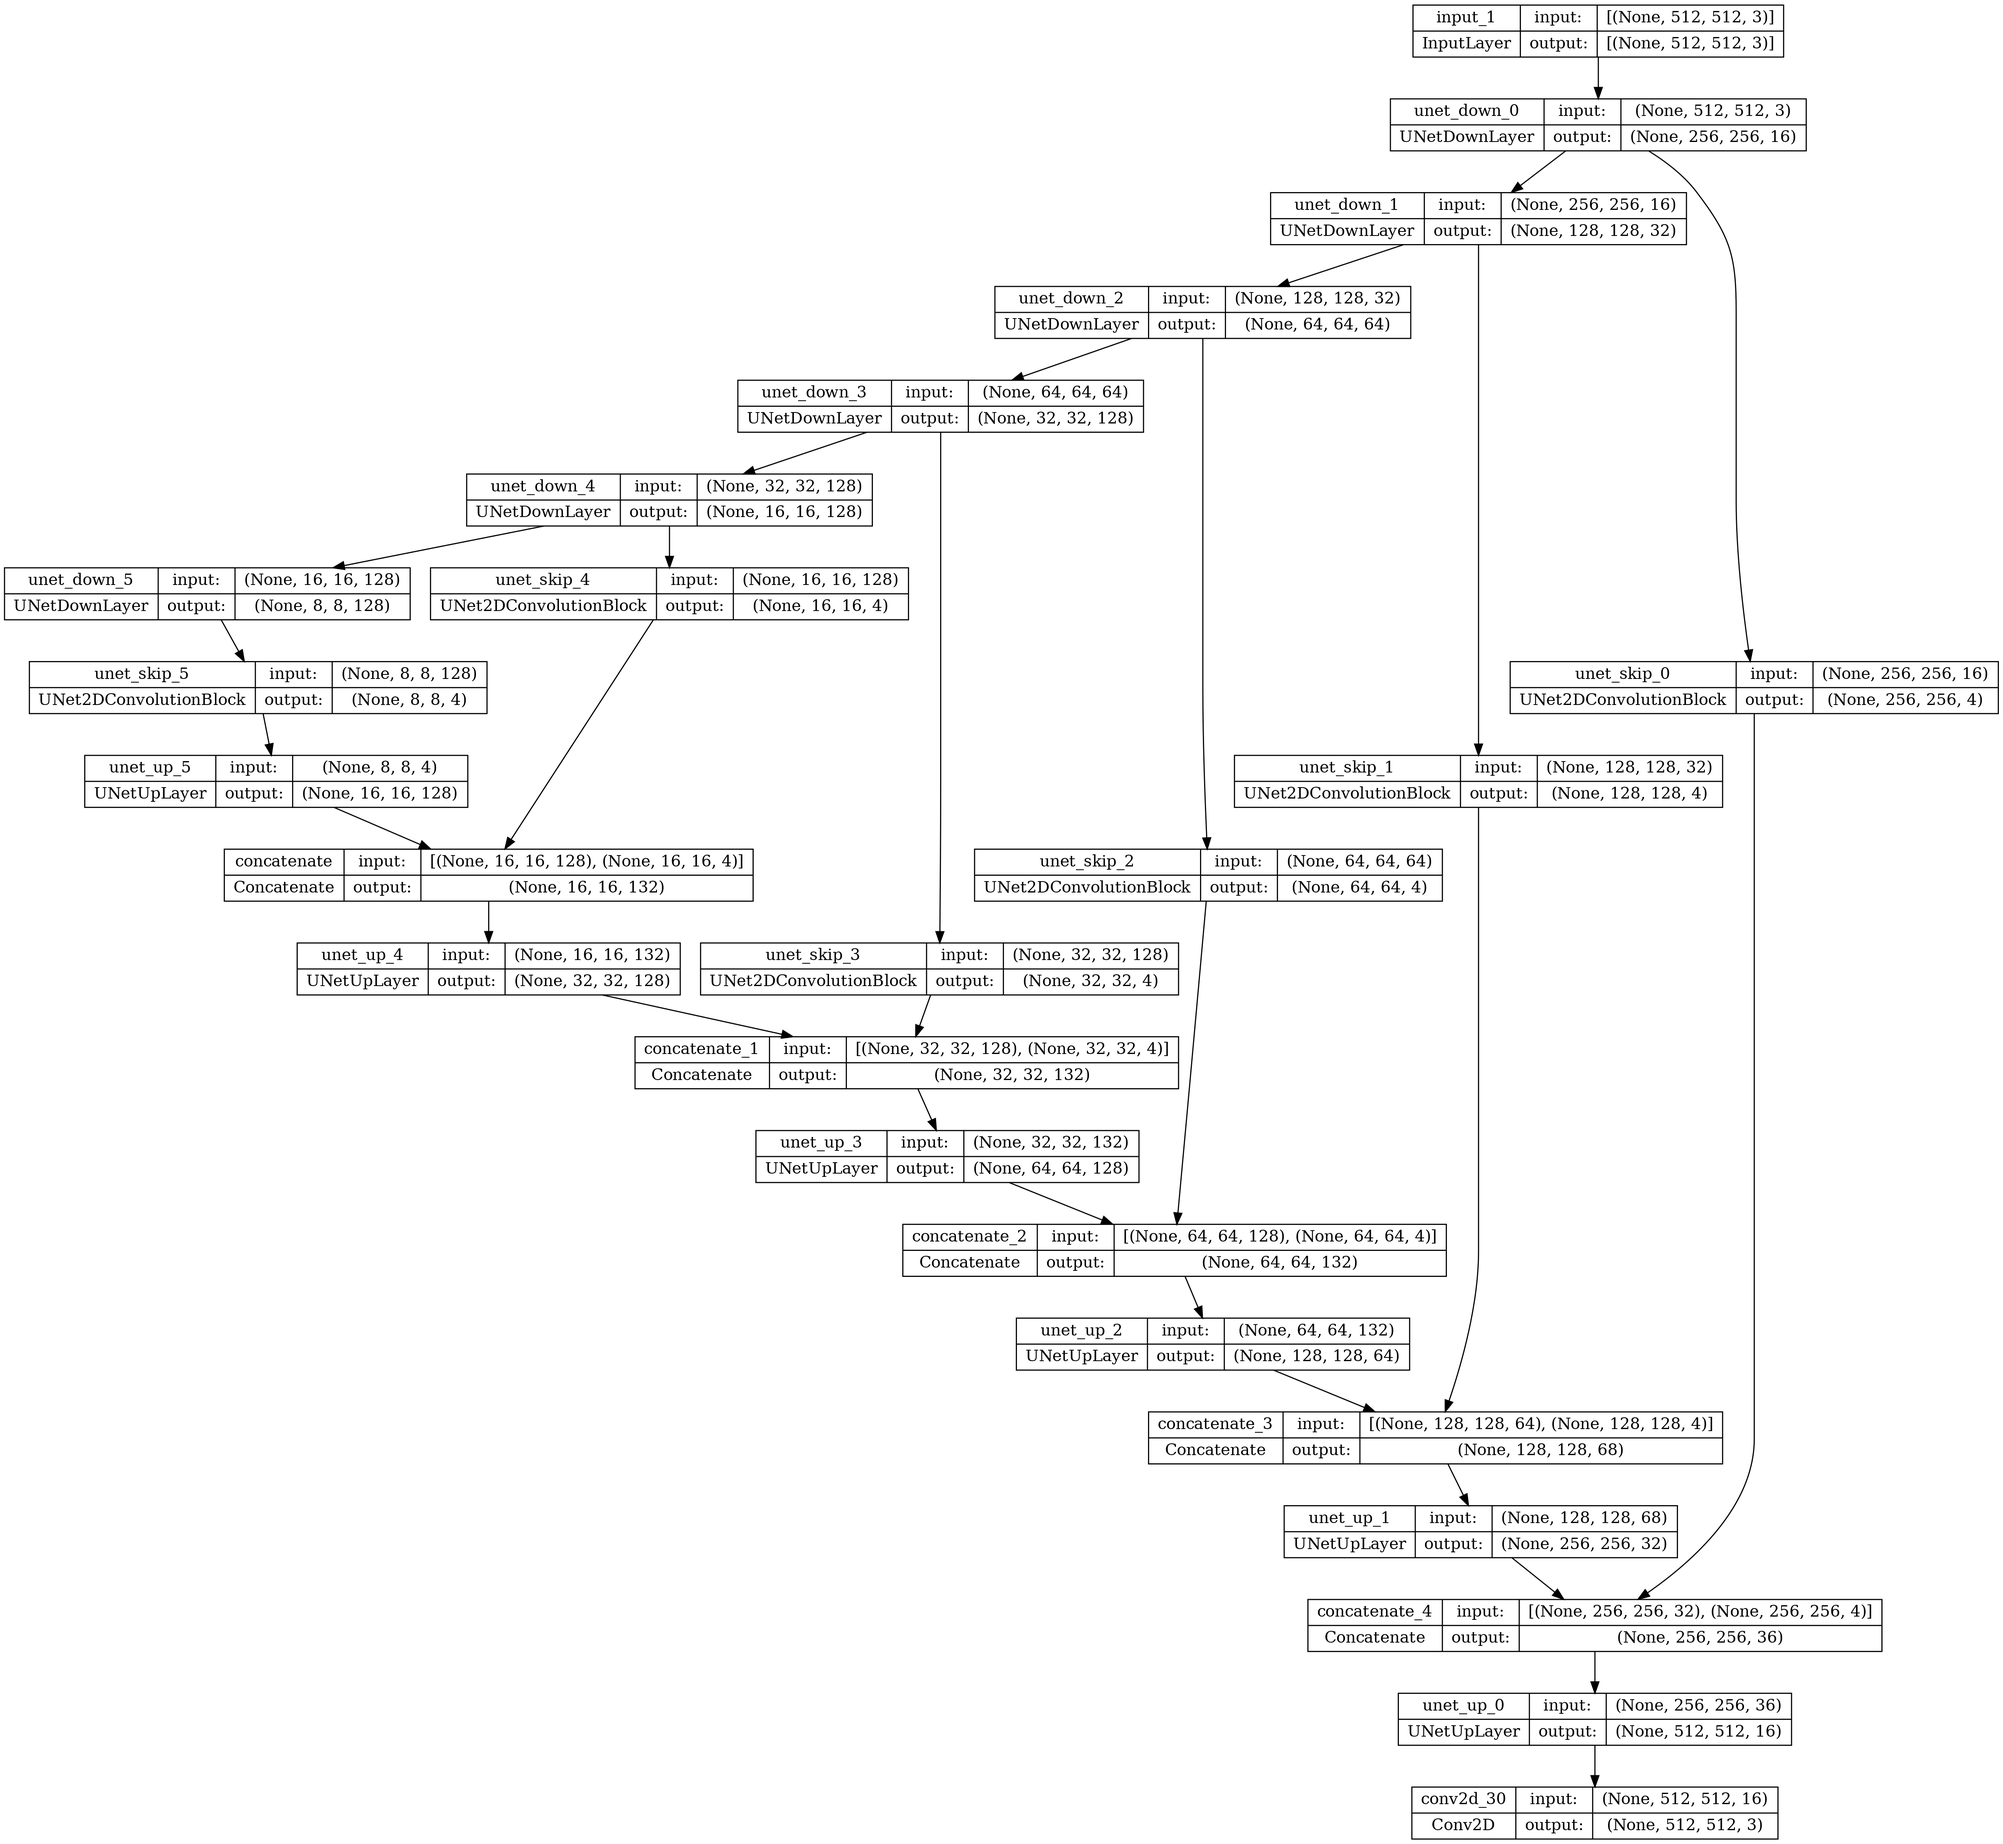
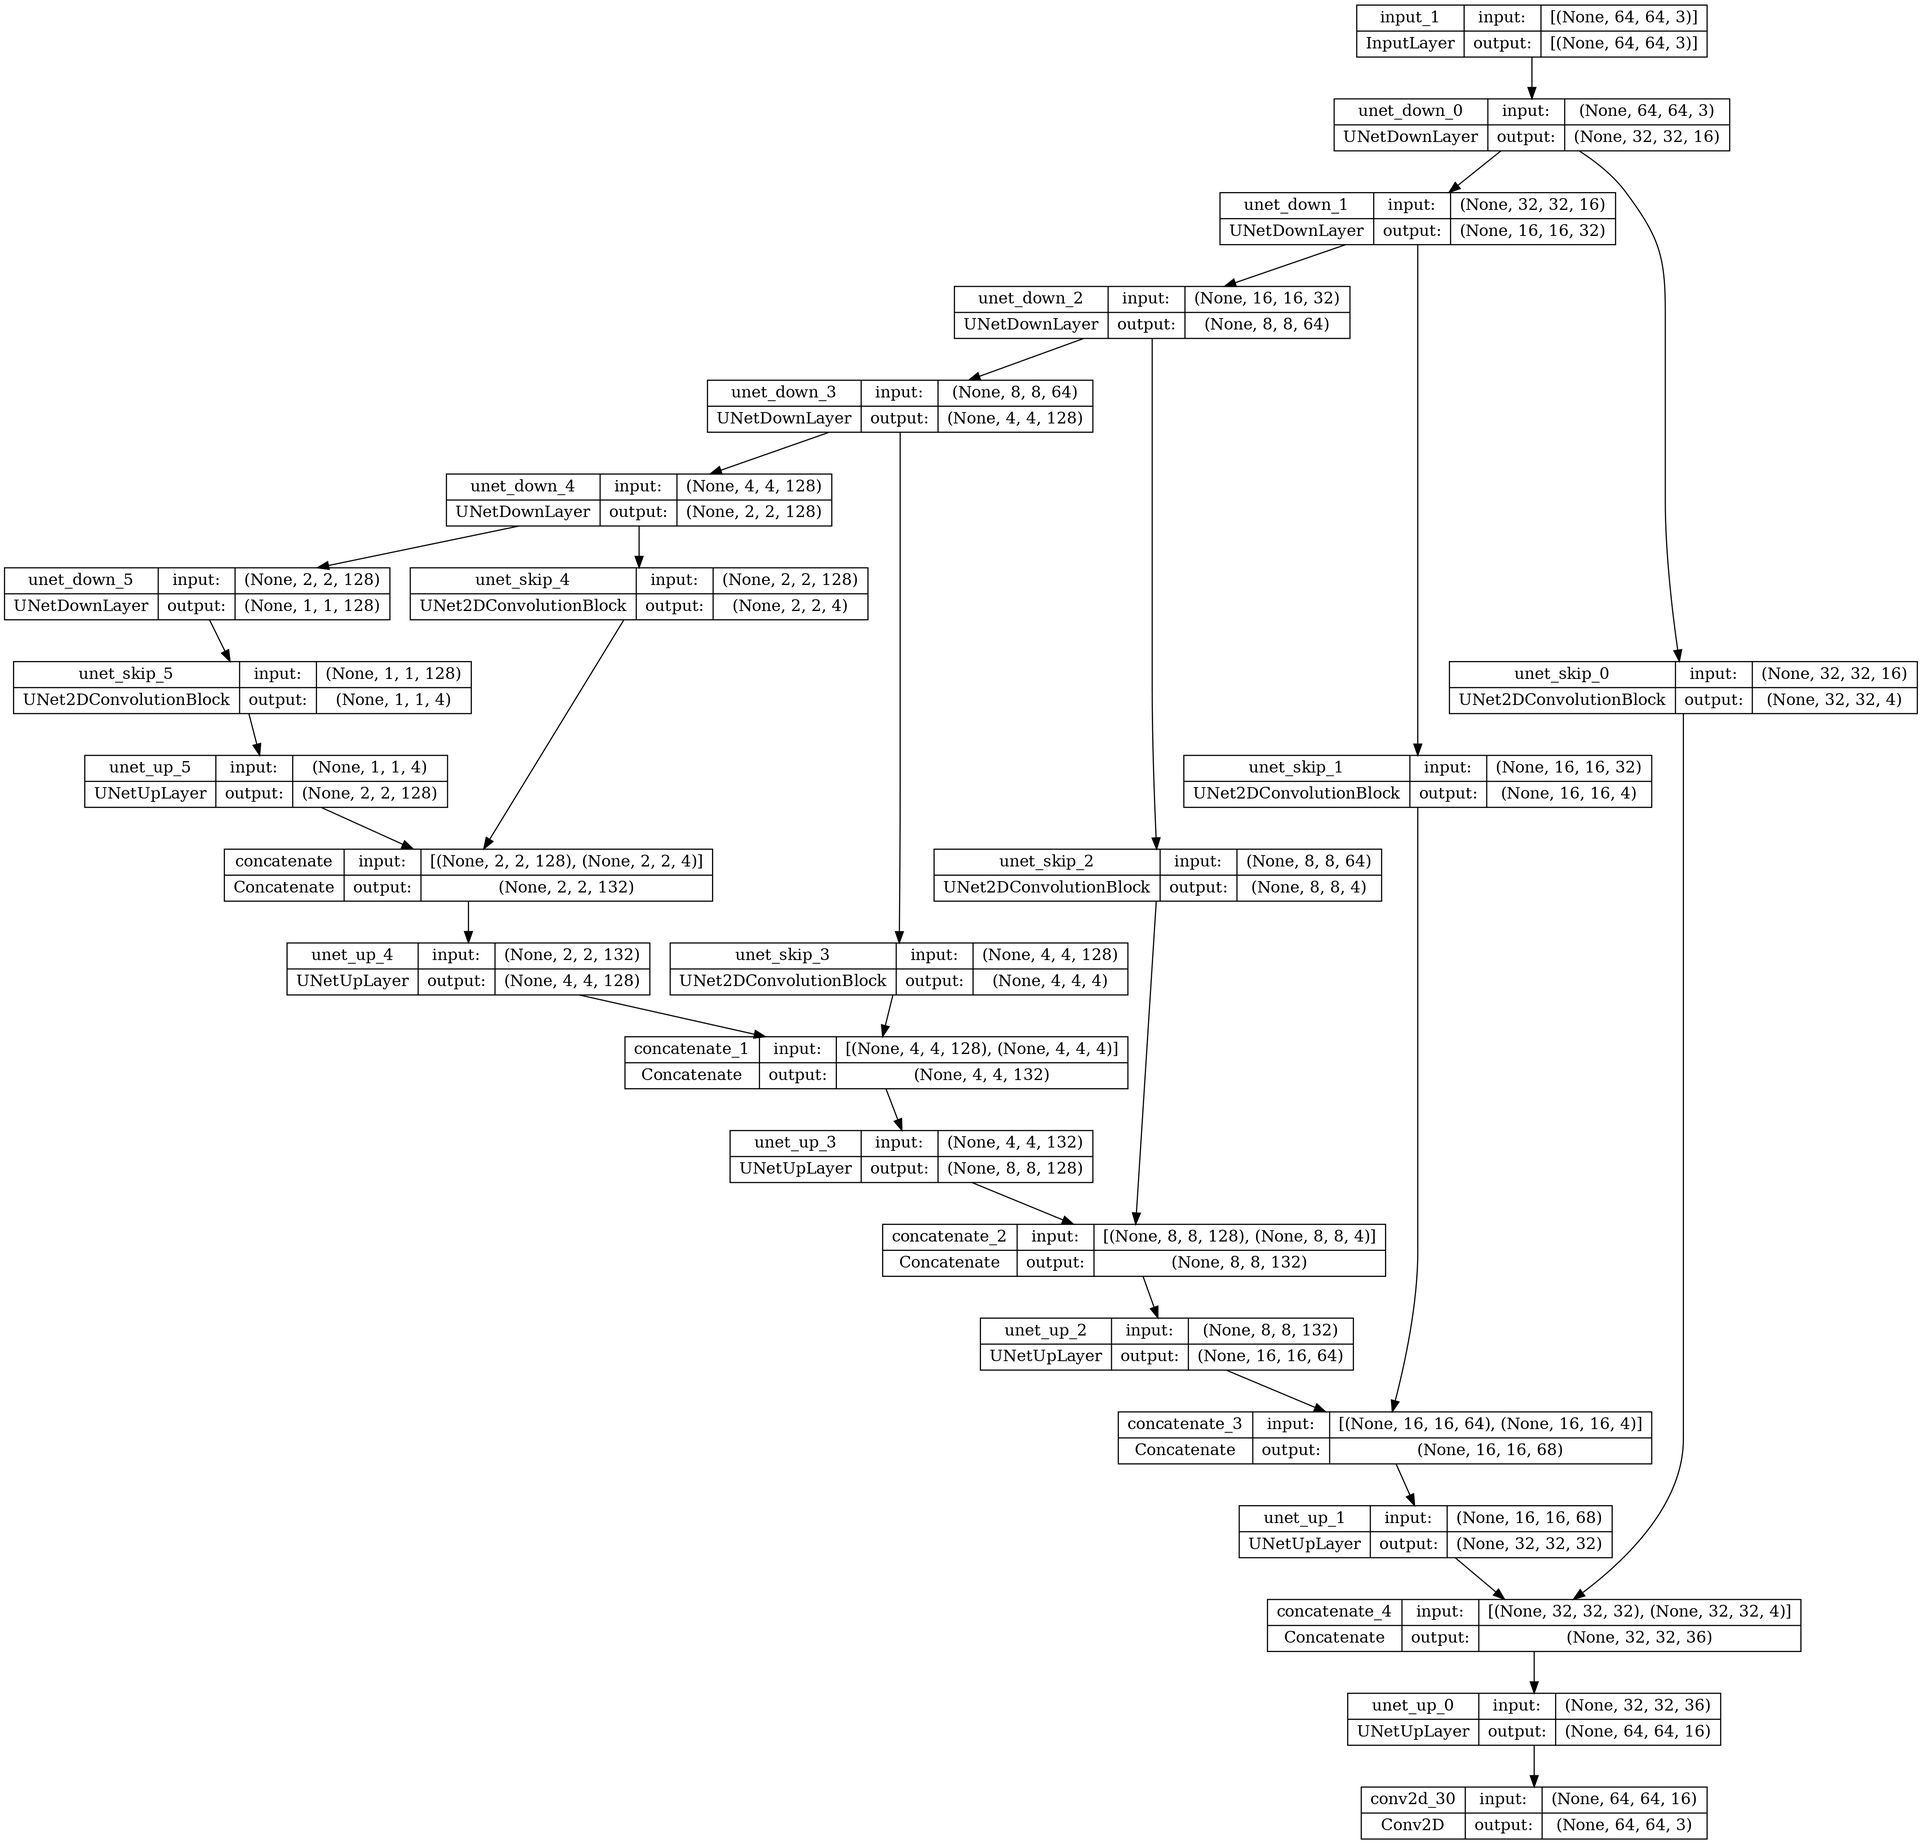
Add training procedure

diff --git a/train.py b/train.py
@@ -1,0 +1,91 @@
+from datetime import datetime
+from pathlib import Path
+from typing import Final
+
+import tensorflow as tf
+
+from image_processor import ImageProcessor
+from unet import UNet
+from utils import set_global_seed
+
+EPOCHS: Final[int] = 1
+
+
+def get_dataset_pair(image_batch):
+    return tf.map_fn(ImageProcessor.apply_mask, image_batch), image_batch
+
+
+def run() -> None:
+    set_global_seed(42)
+    now = datetime.now().strftime("%H.%M-%Y.%m.%d")
+
+    reduce_learning_rate_callback = tf.keras.callbacks.ReduceLROnPlateau(
+        monitor='val_loss',
+        mode='min',
+        min_delta=1e-3,
+        factor=0.5,
+        patience=20,
+        cooldown=10,
+        min_lr=1e-6,
+        verbose=1
+    )
+
+    early_stopping_callback = tf.keras.callbacks.EarlyStopping(
+        monitor='val_loss',
+        mode='min',
+        min_delta=1e-4,
+        patience=50,
+        restore_best_weights=True,
+        verbose=1
+    )
+
+    checkpoint_callback = tf.keras.callbacks.ModelCheckpoint(
+        filepath=Path('models', F'model_{now}'),
+        monitor='val_loss',
+        verbose=1,
+        save_best_only=True,
+        save_weights_only=False,
+        mode='auto',
+        save_freq='epoch'
+    )
+
+    tf.config.run_functions_eagerly(True)
+    tf.data.experimental.enable_debug_mode()
+    train_images = tf.keras.utils.image_dataset_from_directory('../CIFAR10-64/train', labels=None, batch_size=64, image_size=(64, 64), shuffle=True)
+    test_images = tf.keras.utils.image_dataset_from_directory('../CIFAR10-64/test', labels=None, batch_size=64, image_size=(64, 64), shuffle=True)
+
+    train_images = train_images.map(get_dataset_pair, num_parallel_calls=tf.data.AUTOTUNE).cache().prefetch(tf.data.AUTOTUNE)
+    test_images = test_images.map(get_dataset_pair, num_parallel_calls=tf.data.AUTOTUNE).cache().prefetch(tf.data.AUTOTUNE)
+
+    unet = UNet(filters=[16, 32, 64, 128, 128, 128], kernels=[7, 7, 5, 5, 3, 3], skip_filters=[4] * 6, skip_kernels=[1] * 6)
+    unet = unet.build_model(input_shape=(64, 64, 3))
+    tf.keras.utils.plot_model(unet, show_shapes=True, expand_nested=True, dpi=200, to_file='results/unet.png')
+    print(unet.summary(expand_nested=True))
+
+    optimizer = tf.keras.optimizers.Adam(learning_rate=0.001, amsgrad=True)
+    loss = tf.keras.losses.MeanSquaredError()
+    metrics = [tf.keras.metrics.MeanSquaredError()]
+
+    unet.compile(optimizer=optimizer, loss=loss, metrics=metrics)
+
+    model_fitting = unet.fit(
+        train_images,
+        validation_data=test_images,
+        epochs=EPOCHS,
+        use_multiprocessing=True,
+        workers=12,
+        verbose=1,
+        callbacks=[reduce_learning_rate_callback, early_stopping_callback, checkpoint_callback]
+    )
+
+    model_evaluation = unet.evaluate(
+        test_images,
+        use_multiprocessing=True,
+        workers=12,
+        verbose=1,
+        return_dict=True
+    )
+
+
+if __name__ == '__main__':
+    run()

diff --git a/image_processor.py b/image_processor.py
@@ -1,5 +1,6 @@
 from mask_generator import MaskGenerator
 from utils import MaskColor
+import tensorflow as tf
 import numpy as np
 import cv2 as cv
 
@@ -10,8 +11,8 @@ class ImageProcessor:
     """
 
     @staticmethod
-    def apply_mask(image: np.ndarray, ratio: tuple[float, float] = MaskGenerator.DEFAULT_MASK_RATIO, color: MaskColor = MaskColor.WHITE) -> tuple[
-        np.ndarray, np.ndarray]:
+    def apply_mask_with_return(image: np.ndarray | tf.Tensor, ratio: tuple[float, float] = MaskGenerator.DEFAULT_MASK_RATIO,
+                               color: MaskColor = MaskColor.WHITE) -> tuple[np.ndarray, np.ndarray]:
         """
         Apply a mask to an image.
 
@@ -26,14 +27,47 @@ class ImageProcessor:
         height, width, _ = image.shape
         mask = MaskGenerator.generate_mask(mask_size=(height, width), ratio=ratio)
 
-        masked = image.copy()
+        if type(image) == tf.Tensor or True:
 
-        if color == MaskColor.WHITE:
-            masked[mask == MaskGenerator.MASK_VALUE] = MaskColor.WHITE.value
-        elif color == MaskColor.BLACK:
-            masked[mask == MaskGenerator.MASK_VALUE] = MaskColor.BLACK.value
+            mask = tf.stack([mask, mask, mask], axis=-1)
+            mask = tf.where(mask)
+
+            if color == MaskColor.WHITE:
+
+                update_values = tf.constant(MaskColor.WHITE.value, dtype=tf.float32, shape=(mask.shape[0]))
+
+            elif color == MaskColor.BLACK:
+
+                update_values = tf.constant(MaskColor.BLACK.value, dtype=tf.float32, shape=(mask.shape[0]))
+
+            else:
+
+                raise ValueError('Invalid color')
+
+            masked = tf.tensor_scatter_nd_update(image, mask, update_values)
+
+        else:
+
+            masked = image.copy()
+
+            if color == MaskColor.WHITE:
+
+                masked[mask == MaskGenerator.MASK_VALUE] = MaskColor.WHITE.value
+
+            elif color == MaskColor.BLACK:
+
+                masked[mask == MaskGenerator.MASK_VALUE] = MaskColor.BLACK.value
+
+            else:
+
+                raise ValueError('Invalid color')
 
         return masked, mask
+
+    @staticmethod
+    def apply_mask(image: np.ndarray | tf.Tensor, ratio: tuple[float, float] = MaskGenerator.DEFAULT_MASK_RATIO,
+                   color: MaskColor = MaskColor.WHITE) -> np.ndarray:
+        return ImageProcessor.apply_mask_with_return(image, ratio, color)[0]
 
     @staticmethod
     def inpaint_navier_stokes(image: np.ndarray, mask: np.ndarray, radius: float = 3.0) -> np.ndarray:

diff --git a/mask_generator.py b/mask_generator.py
@@ -1,6 +1,7 @@
 from __future__ import annotations
 from typing import Final
 from utils import MaskColor
+import tensorflow as tf
 
 import cv2 as cv
 import numpy as np
@@ -271,7 +272,7 @@ class MaskGenerator:
                 break
             cls.__draw_ellipse(mask, size, height, width, MaskColor.BLACK)
 
-        return mask
+        return mask.astype(np.uint8)
 
     def __generate_mask(self) -> np.ndarray:
         """
@@ -339,6 +340,7 @@ class MaskGenerator:
             cv.ellipse(mask, (center_x, center_y), (axis1, axis2), rotation_angle, start_arc_angle, stop_arc_angle, color.value, thickness)
 
     @classmethod
+    @tf.autograph.experimental.do_not_convert
     def generate_mask(cls, mask_size: tuple[int, int], ratio: tuple[float, float] = DEFAULT_MASK_RATIO,
                       draw_scale: float = DEFAULT_DRAW_SCALE) -> np.ndarray:
         """

diff --git a/unet.py b/unet.py
@@ -4,7 +4,7 @@ from typing import Final, TypeAlias
 import tensorflow as tf
 from enum import Enum
 
-LEAKY_RELU_ALPHA: Final[float] = 0.01
+LEAKY_RELU_ALPHA: Final[float] = 0.2
 
 
 class UpsampleMode(Enum):
